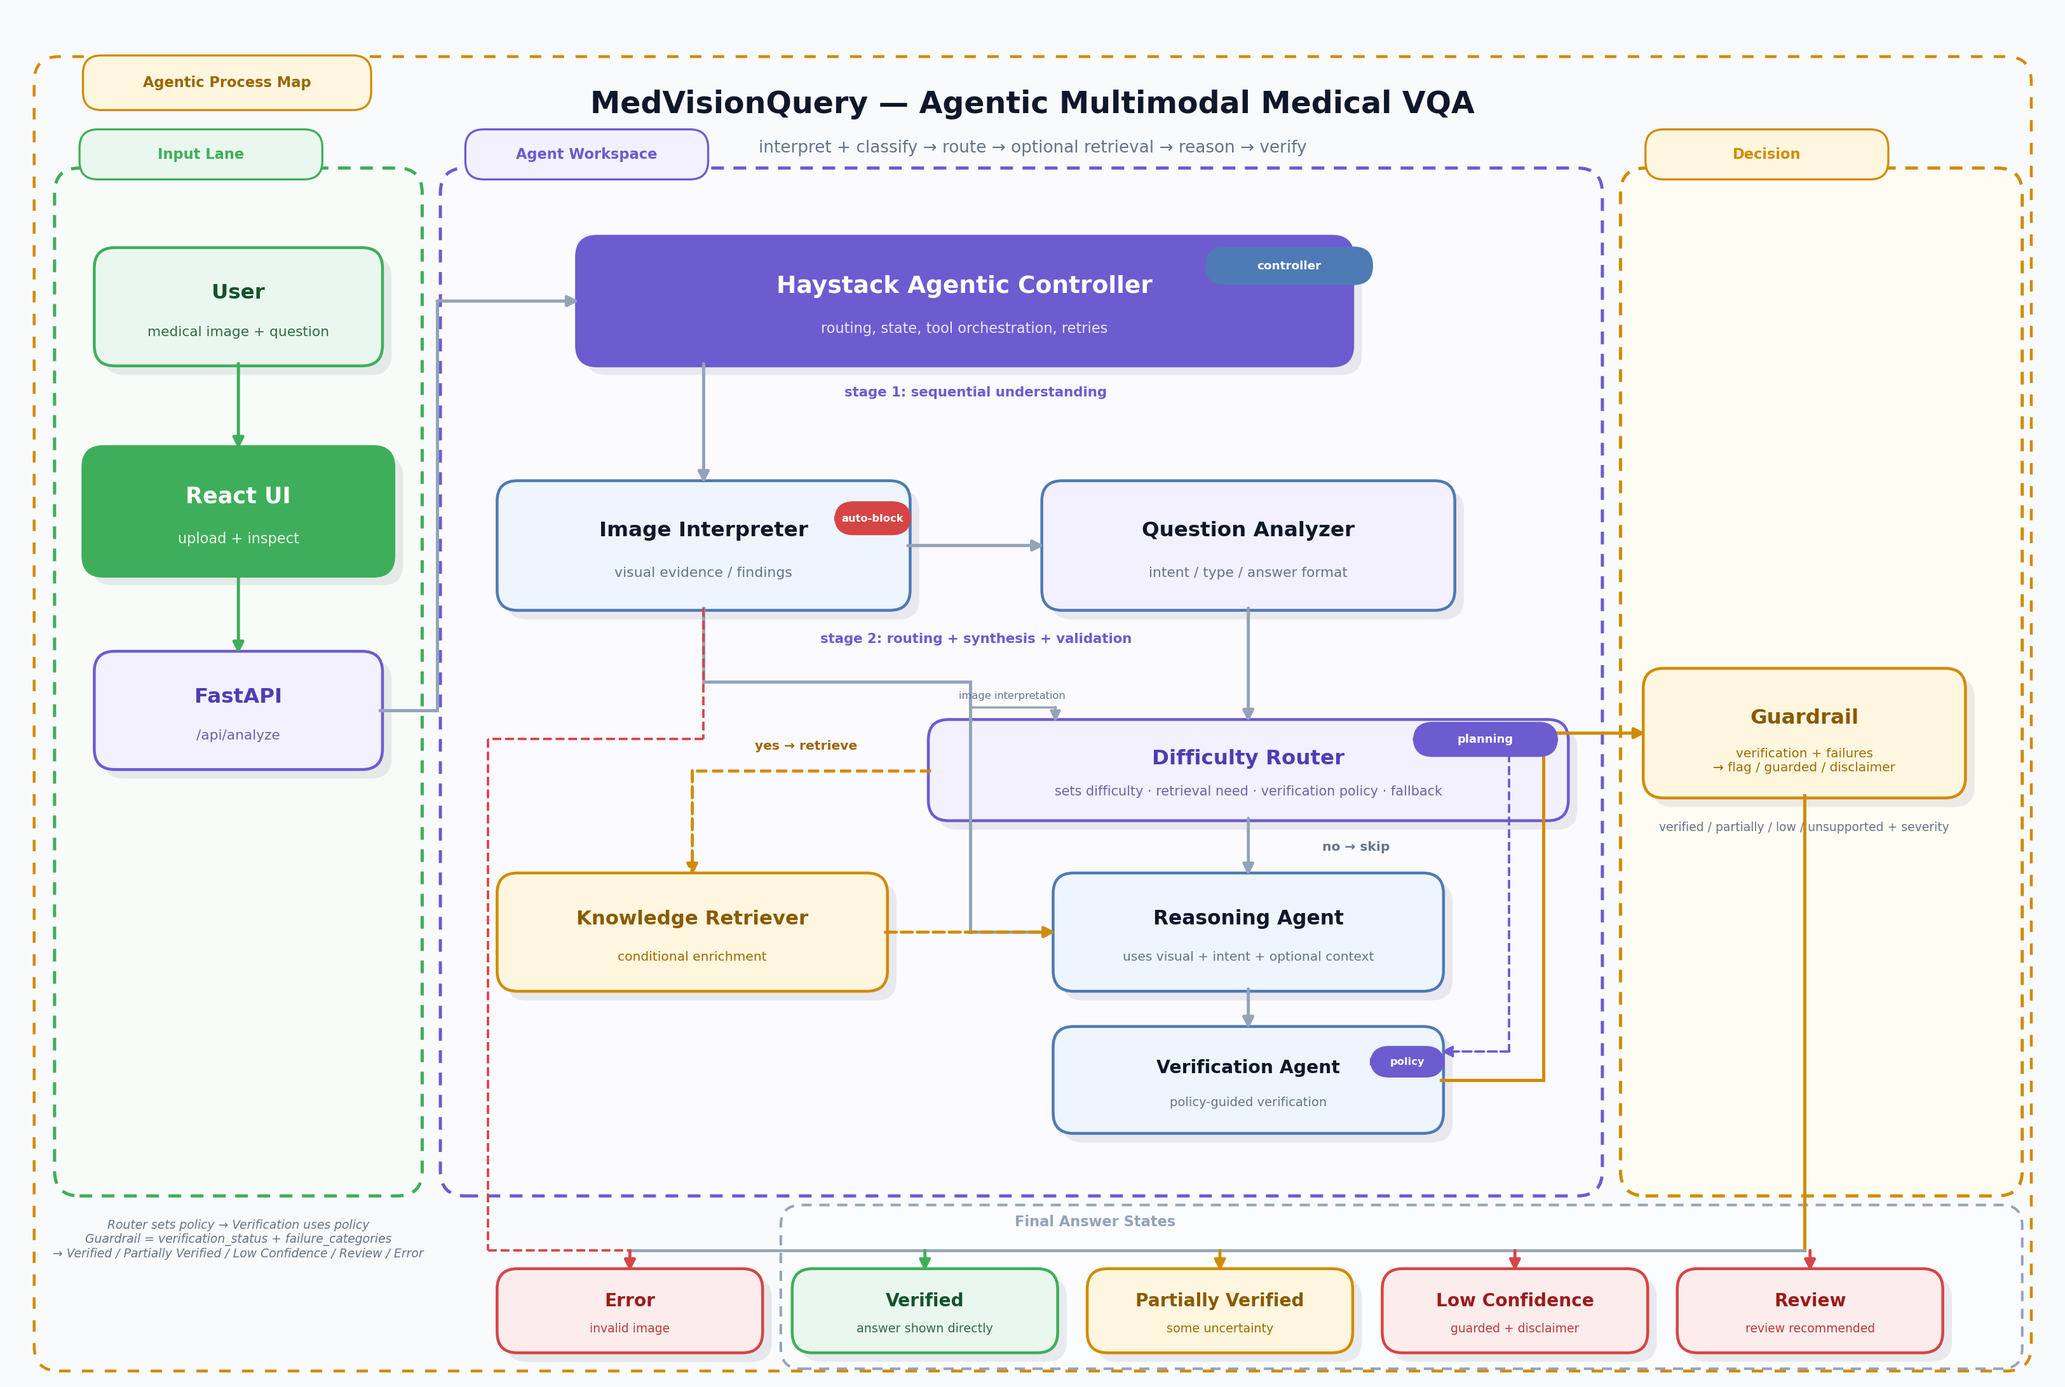
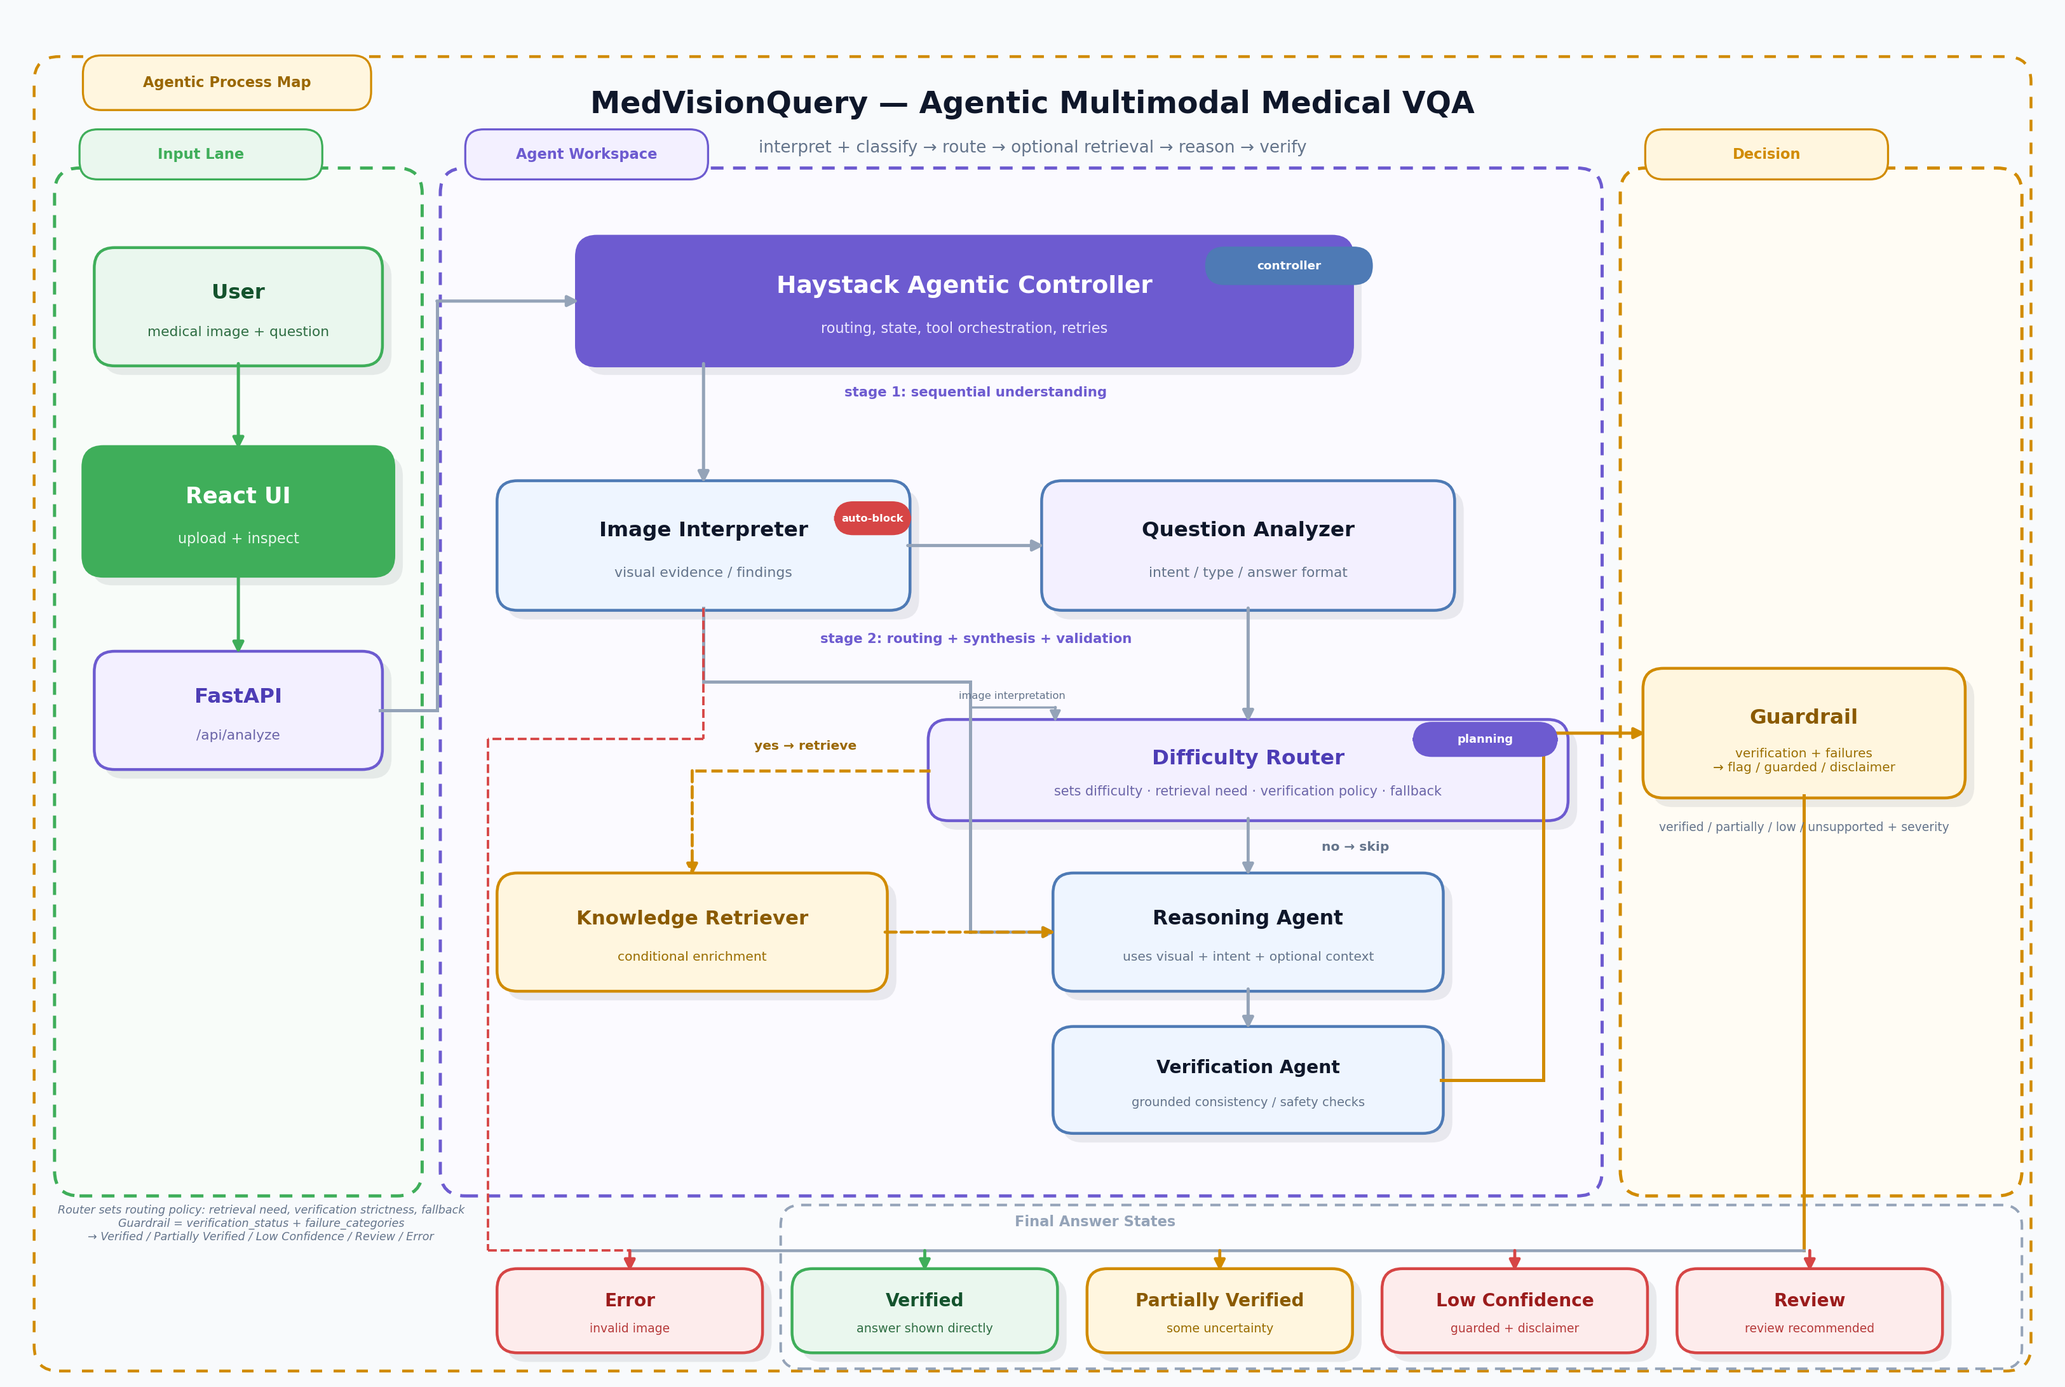
docs: update README and system diagram to clarify routing metadata flow, evaluation metrics, and agent numbering consistency

diff --git a/scripts/system_diagram.py b/scripts/system_diagram.py
@@ -221,9 +221,8 @@ def build_diagram(output_path="system_diagram.png"):
         fs1=12.5, fs2=8.1)
     # Verification Agent  x 9.20-12.60, y 2.15-3.05
     box(ax, 9.20, 2.15, 3.40, 0.90, BLUE_SOFT, BLUE,
-        "Verification Agent", "policy-guided verification",
+        "Verification Agent", "grounded consistency / safety checks",
         fs1=11.3, fs2=7.8)
-    pill(ax, 12.00, 2.65, 0.60, 0.22, "policy", PURPLE, PURPLE, "white", fs=6.5, z=6)
 
     # Image Interpreter → Reasoning Agent
     # Corridor at x=8.45 (gap between retriever right 7.70 & reasoning left 9.20)
@@ -249,9 +248,6 @@ def build_diagram(output_path="system_diagram.png"):
 
     # Reasoning Agent → Verification Agent
     orth_arrow(ax, [(10.90, 3.40), (10.90, 3.05)], color=SLATE)
-
-    # Router → Verification Agent (policy guidance) - dashed purple line, routed around Reasoning Agent
-    orth_arrow(ax, [(12.98, 5.47), (13.20, 5.47), (13.20, 2.85), (12.60, 2.85)], color=PURPLE, lw=1.5, ls="--")
 
     # ══════════════════════════════════════════════════════
     # DECISION
@@ -313,11 +309,11 @@ def build_diagram(output_path="system_diagram.png"):
     orth_arrow(ax, [(6.10, 6.75), (6.10, 5.60), (4.20, 5.60), (4.20, 1.10), (EX, 1.10), (EX, 0.92)], color=RED, lw=1.5, ls="--")
 
     # Footnote — in the left margin below the Input Lane boxes
-    lbl(ax, 2.00, 1.20,
-        "Router sets policy → Verification uses policy\n"
+    lbl(ax, 2.20, 1.34,
+        "Router sets routing policy: retrieval need, verification strictness, fallback\n"
         "Guardrail = verification_status + failure_categories\n"
         "→ Verified / Partially Verified / Low Confidence / Review / Error",
-        fs=7.5, c=MUTED, style="italic", ha="center")
+        fs=7.0, c=MUTED, style="italic", ha="center")
 
     plt.tight_layout(pad=0.25)
     plt.savefig(output_path, bbox_inches="tight", facecolor=fig.get_facecolor())

diff --git a/README.md b/README.md
@@ -1,6 +1,6 @@
 # MedVisionQuery — Agentic Multimodal Medical VQA System
 
-MedVisionQuery is an **agentic multimodal system** for medical visual question answering (VQA) over radiology images. It decomposes the task into 5 specialized agent stages — image interpretation, question understanding, knowledge support, reasoning, and verification — orchestrated by a **Haystack Agent** with LLM-driven tool selection. The knowledge stage now uses an **Advanced RAG pipeline** (query rewriting, hybrid retrieval, reranking, and self-reflection). Results are exposed through a demo UI with **Dashboard**, **Case Explorer**, and **Evaluation** views.
+MedVisionQuery is an **agentic multimodal system** for medical visual question answering (VQA) over radiology images. It decomposes the task into 6 specialized agent stages — image interpretation, question understanding, difficulty routing, knowledge support, reasoning, and verification — orchestrated by a **Haystack Agent** with LLM-driven tool selection. The knowledge stage now uses an **Advanced RAG pipeline** (query rewriting, hybrid retrieval, reranking, and self-reflection). Results are exposed through a demo UI with **Dashboard**, **Case Explorer**, and **Evaluation** views.
 
 > ⚠ **For educational and research purposes only. Not for clinical use.**
 
@@ -10,12 +10,12 @@ MedVisionQuery is an **agentic multimodal system** for medical visual question a
 
 | Property | Implementation |
 |---|---|
-| Problem decomposition | 5 distinct agent stages with explicit roles |
+| Problem decomposition | 6 distinct agent stages with explicit roles |
 | Agent architecture | Named agents wrapped as Haystack Tools; the controller decides tool use over shared state |
 | Multimodal grounding | The image is interpreted once, then downstream stages consume structured visual state; the current runtime uses OpenAI-backed generators throughout |
 | Dynamic tool selection | `retrieve_knowledge` is optional and skipped for simple visual question types by the controller |
 | Control & failure handling | Verification, guardrails, disclaimers, review flags, failure categories, and automatic retry |
-| Evaluation | Against two baselines with exact match, token F1, close/open-ended accuracy, and disagreement analysis |
+| Evaluation | Against two baselines with normalized answer-match accuracy, token F1, close/open-ended accuracy, and disagreement analysis |
 
 ---
 
@@ -69,9 +69,8 @@ flowchart LR
     ORCH -->|tool call| T6[Tool: verify_answer\nVerificationAgent]
 
     T1 -->|auto-block| ERR[Error\nnon-radiology image]
-    T3 -->|policy| T6
 
-    T1 -->|outputs_to_state| STATE[(Shared Agent State\n14 typed fields)]
+    T1 -->|outputs_to_state| STATE[(Shared Agent State\n16 typed fields)]
     T2 -->|outputs_to_state| STATE
     T3 -->|outputs_to_state| STATE
     T4 -->|outputs_to_state| STATE
@@ -94,12 +93,11 @@ flowchart LR
     API --> B1[Baseline 1\nSingle-shot Multimodal Prompt]
     API --> B2[Baseline 2\nHand-designed Workflow]
 
-    T3 --> RAG[Advanced RAG Engine\nquery rewrite + FAISS/BM25 + rerank + reflection]
+    T4 --> RAG[Advanced RAG Engine\nquery rewrite + FAISS/BM25 + rerank + reflection]
     RAG --> TRAIN[(VQA-RAD train split\nretrieval corpus)]
 
-    T5 --> CACHE[Case Analysis Cache\n.case_explorer_cache/]
-    B1 --> CACHE
-    B2 --> CACHE
+    EXP --> DATA[Dataset Analysis\n/api/dataset/sample/{id}/analysis]
+    DATA --> CACHE[Case Analysis Cache\n.case_explorer_cache/]
     CACHE --> EVAL
 
     T1 --> LLM[OpenAI API\nOPENAI_MODEL]
@@ -119,10 +117,10 @@ flowchart LR
 |---|---|---|---|
 | `ImageInterpreter` | `image_interpreter.py` | Perception — multimodal image interpretation with auto-block for non-radiology images | OpenAI |
 | `QuestionAnalyzer` | `question_analyzer.py` | Task understanding — question classification and intent analysis | OpenAI |
-| `DifficultyRouter` | `difficulty_router.py` | Planning — sets difficulty, retrieval need, verification policy, fallback policy | OpenAI |
+| `DifficultyRouter` | `difficulty_router.py` | Agent 3: Planning — sets routing metadata in shared state | OpenAI |
 | `KnowledgeRetriever` | `knowledge_retriever.py` | Context — optional Advanced RAG retrieval over VQA-RAD train split + LLM synthesis | OpenAI + local retrieval stack |
 | `ReasoningAgent` | `reasoning_agent.py` | Synthesis — generates answer and explanation from all prior context | OpenAI |
-| `VerificationAgent` | `verification_agent.py` | Evaluator — policy-guided verification with 5 structured checks | OpenAI |
+| `VerificationAgent` | `verification_agent.py` | Evaluator — grounded consistency / safety checks with 5 structured checks | OpenAI |
 | Agent Controller | `orchestrator.py` | Haystack `Agent` — routes tool calls, manages shared state, guardrails, retry | OpenAI |
 | Workflow Baseline | `workflow_baseline.py` | Deterministic answer derivation over image/question analysis outputs | Rules + OpenAI intermediates |
 | Single-shot Baseline | `baseline.py` | Direct image+question prompt with no decomposition | OpenAI |
@@ -134,27 +132,26 @@ The orchestrator uses Haystack's `Agent` + `Tool` architecture:
 - **6 agents** wrapped as `Tool` with `inputs_from_state` / `outputs_to_state` bindings:
   1. `interpret_image` — ImageInterpreter (multimodal)
   2. `analyze_question` — QuestionAnalyzer
-  3. `route_difficulty` — DifficultyRouter (sets verification/fallback policy)
-  4. `retrieve_knowledge` — KnowledgeRetriever (conditional)
+  3. `route_difficulty` — DifficultyRouter (sets routing metadata in shared state)
+  4. `retrieve_knowledge` — KnowledgeRetriever (conditional, based on `routing_decision.needs_retrieval`)
   5. `reason_answer` — ReasoningAgent
-  6. `verify_answer` — VerificationAgent (uses policy from Router)
+  6. `verify_answer` — VerificationAgent
 - The controller LLM decides which tools to invoke and in what order based on prior outputs in state
-- **Policy flow**: DifficultyRouter → sets `verification_policy` + `fallback_policy` → guides VerificationAgent
+- **Routing metadata**: DifficultyRouter stores `verification_policy` + `fallback_policy` in `routing_decision`; downstream payloads and UI surfaces read these fields from shared state
 - **Auto-block**: ImageInterpreter validates radiology images; non-radiology images abort pipeline early → Error state
-- **Guardrail**: Combines `verification_status` + `failure_categories` → 5 final states: Verified, Partially Verified, Low Confidence, Review, Error
-- 14 state fields: `image_bytes`, `mime_type`, `question`, `image_interpretation`, `question_analysis`, `routing_decision`, `knowledge`, `answer_data`, `verification_result`, 5 duration fields, `retry_context`
+- 16 state fields: `image_bytes`, `mime_type`, `question`, `image_interpretation`, `question_analysis`, `routing_decision`, `knowledge`, `answer_data`, `verification_result`, 5 duration fields, `retry_context`
 - Exit condition: `verify_answer` finalizes the session
 - A fresh `Agent` is created per request to prevent shared mutable state under concurrency
 
 ### Dynamic Tool Selection
 
-The controller uses `question_type` from `QuestionAnalyzer` to decide whether to invoke `KnowledgeRetriever`:
+The controller follows `routing_decision.needs_retrieval` to decide whether to invoke `KnowledgeRetriever`:
 
 | Question type | `retrieve_knowledge` called? |
 |---|---|
-| `modality_identification`, `anatomy_identification`, `presence_absence`, `location`, `counting`, `yes_no` | No — skipped |
-| `abnormality_description`, `explanation_request` | Yes |
-| When `requires_medical_knowledge` is true | Yes |
+| `modality_identification`, `anatomy_identification`, `presence_absence`, `location`, `counting`, `yes_no` | Usually skipped |
+| `abnormality_description`, `explanation_request` | Usually retrieved |
+| When `requires_medical_knowledge` is true | Usually retrieved |
 
 ### Knowledge Retrieval (Advanced RAG)
 
@@ -172,7 +169,7 @@ Retrieval corpus is built from the **train split** of `data/vqa-rad/vqa_rad.json
 
 ### Current runtime model configuration
 
-The current runtime uses a single OpenAI configuration across the full agentic pipeline and the single-shot baseline.
+The current runtime uses OpenAI for all LLM-driven stages; the Advanced RAG retrieval stack additionally uses local SentenceTransformers, CrossEncoder, FAISS, and BM25 models.
 
 | Env vars | Used by |
 |---|---|
@@ -180,7 +177,7 @@ The current runtime uses a single OpenAI configuration across the full agentic p
 | `VISION_MODEL` | `ImageInterpreter`, `baseline.py` |
 | `OPENAI_MODEL` | `QuestionAnalyzer`, `KnowledgeRetriever`, `ReasoningAgent`, `VerificationAgent`, Haystack controller |
 
-All agentic steps strictly utilize OpenAI. Hugging Face is only used to download the raw dataset via scripts.
+Hugging Face is used to download the raw dataset via scripts. The retrieval stack itself is local, while the agentic generation steps use OpenAI.
 
 ### Other Technology Choices
 
@@ -191,7 +188,7 @@ All agentic steps strictly utilize OpenAI. Hugging Face is only used to download
 - **SentenceTransformers + CrossEncoder** — dense embeddings and cross-encoder reranking
 - **BM25 (`rank-bm25`)** — sparse lexical retrieval for hybrid search
 - **Hugging Face `datasets`** — used only by `scripts/download_dataset.py` to materialize the local VQA-RAD data folder
-- **Matplotlib** — `scripts/system_diagram.py` regenerates `scripts/docs/system_diagram.png`
+- **Matplotlib** — `scripts/system_diagram.py` regenerates `system_diagram.png`
 
 ---
 
@@ -335,14 +332,14 @@ The Guardrail combines `verification_status` + `failure_categories` to produce 5
 ## Evaluation Design
 
 ### Metrics computed per cached case
-- **Exact match** — normalized answer string comparison
+- **Normalized answer match** — yes/no normalization first, otherwise Token F1 ≥ 0.7
 - **Yes/no normalization** — `yes/true/present/positive` → `yes`; `no/false/absent/negative/normal` → `no`
 - **Token F1** — unigram overlap between predicted and ground-truth answer
-- **Winner** — `baseline` / `workflow` / `agentic` / `tie_multi_correct` / `tie_all_wrong`
+- **Winner** — `baseline` / `workflow` / `agentic` / `tie: ...` / `tie_all_wrong`
 - **Disagreement** — whether any two systems produced different answers
 
 ### Aggregate evaluation summary
-- Overall exact-match accuracy per system (baseline / workflow / agentic)
+- Overall normalized answer-match accuracy per system (baseline / workflow / agentic)
 - Close-ended and open-ended accuracy per system
 - Win counts, disagreement rate, and average duration (ms)
 - Per-question-type accuracy breakdown
@@ -358,7 +355,7 @@ The Guardrail combines `verification_status` + `failure_categories` to produce 5
 |---|---|---|
 | Single-shot baseline | `baseline.py` | One multimodal prompt, no decomposition — answer + explanation + confidence |
 | Workflow baseline | `workflow_baseline.py` | Deterministic answer derivation over image/question analysis outputs |
-| Agentic pipeline | `orchestrator.py` | 5-tool Haystack Agent with LLM controller, verification, guardrails, retry |
+| Agentic pipeline | `orchestrator.py` | 6-tool Haystack Agent with LLM controller, verification, guardrails, retry |
 
 ---
 
@@ -404,7 +401,7 @@ Purpose: **systematic browsing and analysis of the VQA-RAD dataset**.
 Purpose: **aggregate performance comparison across all cached analyses**.
 
 - Reads all cached Case Explorer results automatically
-- Displays exact-match accuracy, close/open-ended accuracy, win counts, disagreement rate, and average duration per system
+- Displays normalized answer-match accuracy, close/open-ended accuracy, win counts, disagreement rate, and average duration per system
 - Shows a per-question-type breakdown and recent evaluated-case table with verification signals
 - Hit **Refresh** to re-aggregate after running new cases in Case Explorer
 
@@ -509,9 +506,9 @@ Medical-VQA-Explanation-Agent/
 │   │   ├── image_interpreter.py     # Agent 1: multimodal image interpretation (OpenAI)
 │   │   ├── question_analyzer.py     # Agent 2: question classification and intent analysis (OpenAI)
 │   │   ├── advanced_rag.py          # Advanced RAG engine: query rewrite, FAISS+BM25 retrieval, reranking, reflection
-│   │   ├── knowledge_retriever.py   # Agent 3: optional medical context retrieval with Advanced RAG grounding
-│   │   ├── reasoning_agent.py       # Agent 4: answer synthesis with retry context support (OpenAI)
-│   │   ├── verification_agent.py    # Agent 5: structured verification and fallback recommendations (OpenAI)
+│   │   ├── knowledge_retriever.py   # Agent 4: optional medical context retrieval with Advanced RAG grounding
+│   │   ├── reasoning_agent.py       # Agent 5: answer synthesis with retry context support (OpenAI)
+│   │   ├── verification_agent.py    # Agent 6: structured verification and fallback recommendations (OpenAI)
 │   │   ├── baseline.py              # Single-shot multimodal baseline (OpenAI)
 │   │   └── workflow_baseline.py     # Deterministic answer derivation over image/question analysis outputs
 │   ├── routes/
@@ -546,8 +543,7 @@ Medical-VQA-Explanation-Agent/
 ├── scripts/
 │   ├── download_dataset.py          # downloads VQA-RAD from Hugging Face, writes JSON + images
 │   ├── system_diagram.py            # regenerates the architecture figure
-│   └── docs/
-│       └── system_diagram.png       # rendered system diagram asset
+├── system_diagram.png               # rendered system diagram asset
 └── data/
     └── vqa-rad/                     # gitignored — created by download_dataset.py
         ├── vqa_rad.json             # flattened QA manifest with split labels and image filenames
@@ -585,7 +581,7 @@ The current download script flattens the Hugging Face dataset into one local PNG
 
 - ~8–10 serial LLM calls per pass (one controller dispatch + one tool call per stage) — up to ~20 with automatic retry; significantly slower and more expensive than single-shot inference
 - Retrieval is grounded to VQA-RAD train examples, but coverage is still limited to dataset distribution (not a comprehensive medical knowledge base)
-- Token F1 is brittle for open-ended answers; exact match misses near-correct responses
+- Token F1 thresholding is still brittle for open-ended answers; near-correct responses can fall below the cutoff
 - Self-consistency signal is lightweight (single verifier pass) rather than multi-sample voting
 - Research and demonstration use only — not suitable for clinical deployment
 
